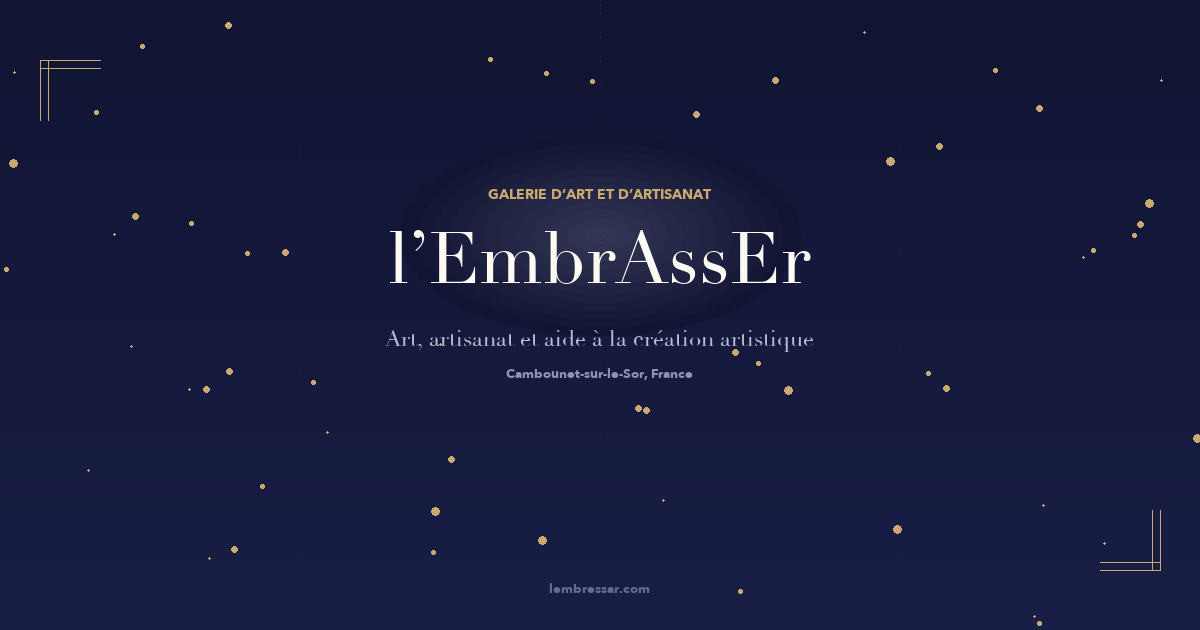
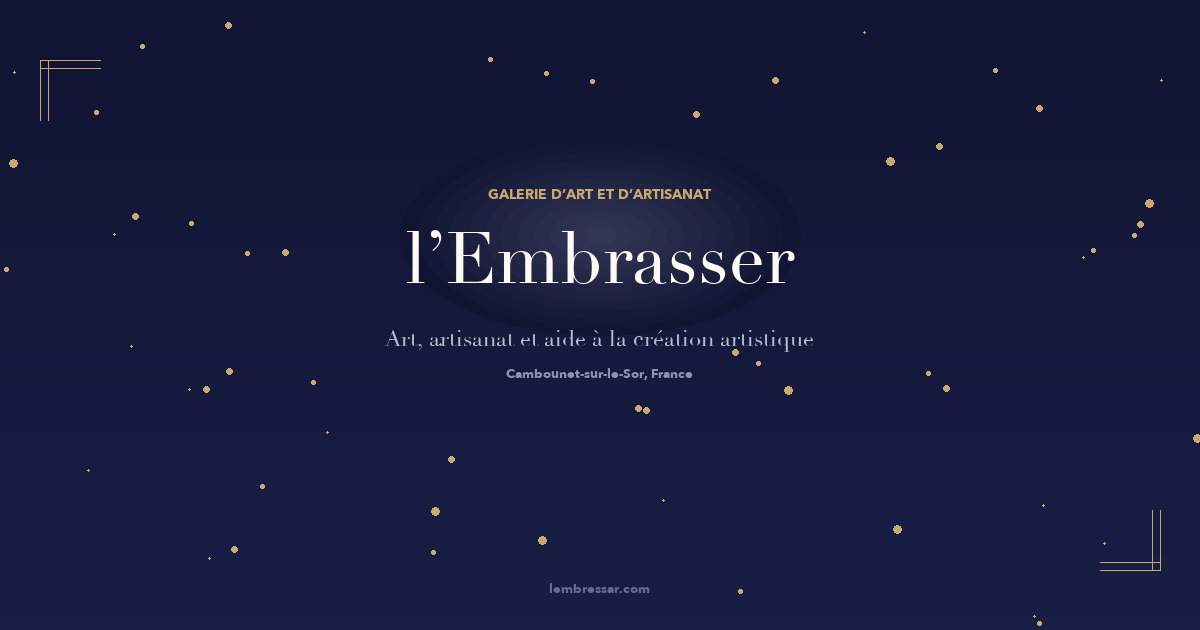
fix(brand): Correct name to l'Embrasser (normal casing)
Owner clarified capital letters were just indicating position, not actual
casing. Regenerated OG images with correct name.

Changed region(s): [[0.3083, 0.3619, 0.6783, 0.4524]]

diff --git a/index.html b/index.html
@@ -4,9 +4,9 @@
     <meta charset="UTF-8" />
     <link rel="icon" type="image/svg+xml" href="/favicon.svg" />
     <meta name="viewport" content="width=device-width, initial-scale=1.0" />
-    <title>L&#8217;EmbrAssEr - Galerie d'Art et d'Artisanat</title>
-    <meta name="description" content="L&#8217;EmbrAssEr - Art gallery and artisan craft shop in Cambounet-sur-le-Sor, France. Fine art, handcrafted objects, and artistic creation assistance since 2017." />
-    <meta property="og:title" content="L&#8217;EmbrAssEr - Galerie d'Art et d'Artisanat" />
+    <title>L&#8217;Embrasser - Galerie d'Art et d'Artisanat</title>
+    <meta name="description" content="L&#8217;Embrasser - Art gallery and artisan craft shop in Cambounet-sur-le-Sor, France. Fine art, handcrafted objects, and artistic creation assistance since 2017." />
+    <meta property="og:title" content="L&#8217;Embrasser - Galerie d'Art et d'Artisanat" />
     <meta property="og:description" content="Art gallery and artisan craft shop. Fine art, handcrafted objects, and artistic creation assistance." />
     <meta property="og:type" content="website" />
     <meta property="og:url" content="https://lembressar.com" />
@@ -14,7 +14,7 @@
     <meta property="og:image:width" content="1200" />
     <meta property="og:image:height" content="630" />
     <meta name="twitter:card" content="summary_large_image" />
-    <meta name="twitter:title" content="L&#8217;EmbrAssEr - Galerie d'Art et d'Artisanat" />
+    <meta name="twitter:title" content="L&#8217;Embrasser - Galerie d'Art et d'Artisanat" />
     <meta name="twitter:description" content="Art gallery and artisan craft shop. Fine art, handcrafted objects, and artistic creation assistance." />
     <meta name="twitter:image" content="https://lembressar.com/og-image.png" />
     <link rel="preconnect" href="https://fonts.googleapis.com" />

diff --git a/src/i18n/translations.js b/src/i18n/translations.js
@@ -1,5 +1,5 @@
-const BRAND = 'l\u2019EmbrAssEr'
-const BRAND_UPPER = 'L\u2019EmbrAssEr'
+const BRAND = 'l\u2019Embrasser'
+const BRAND_UPPER = 'L\u2019Embrasser'
 
 export const translations = {
   fr: {
